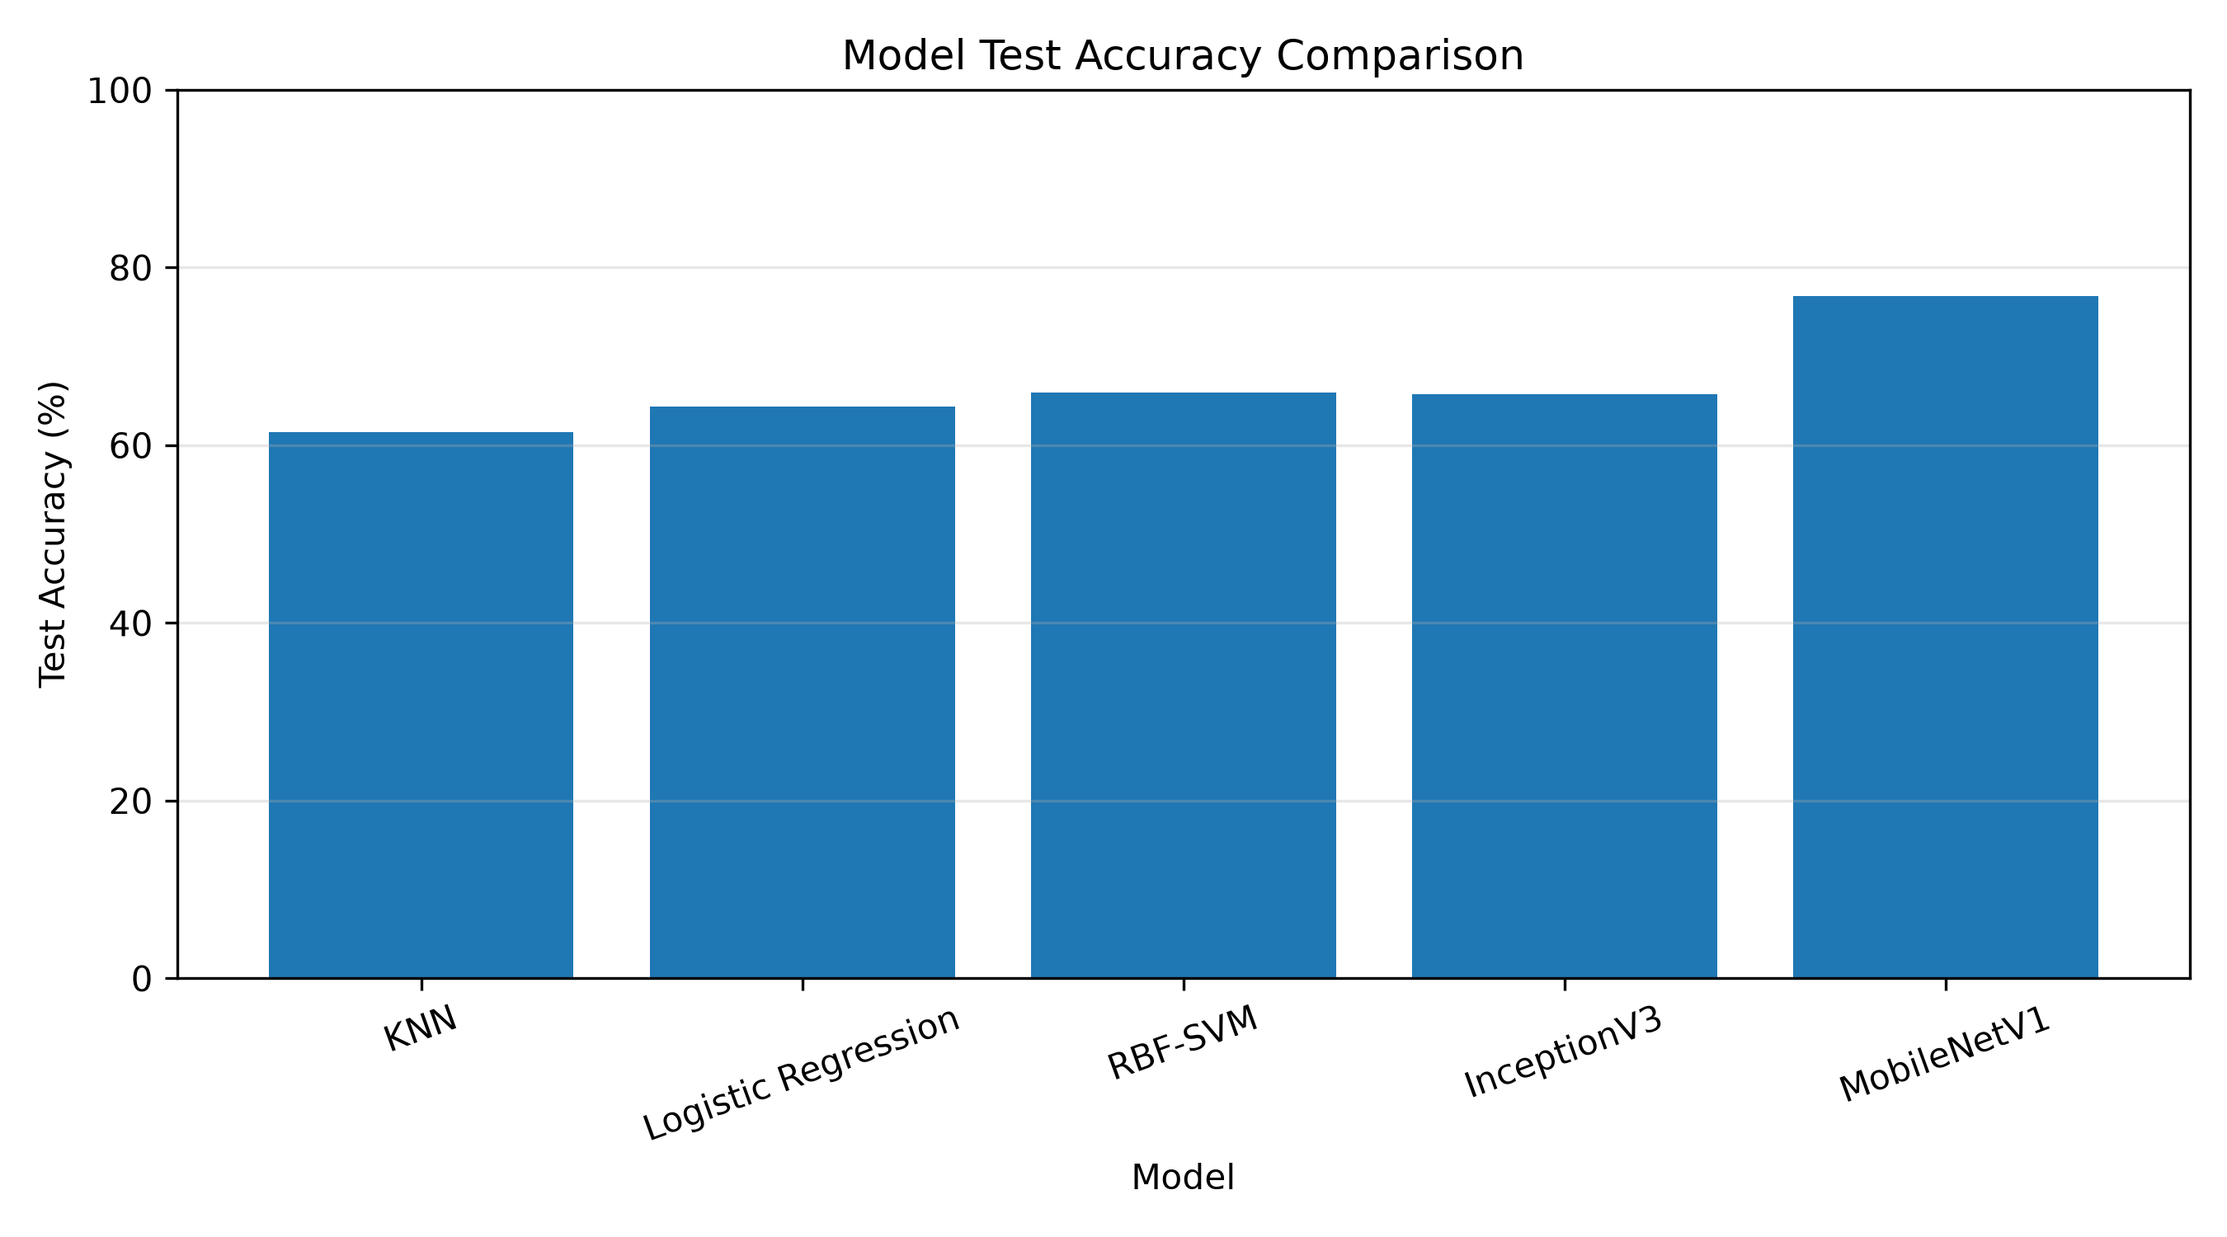
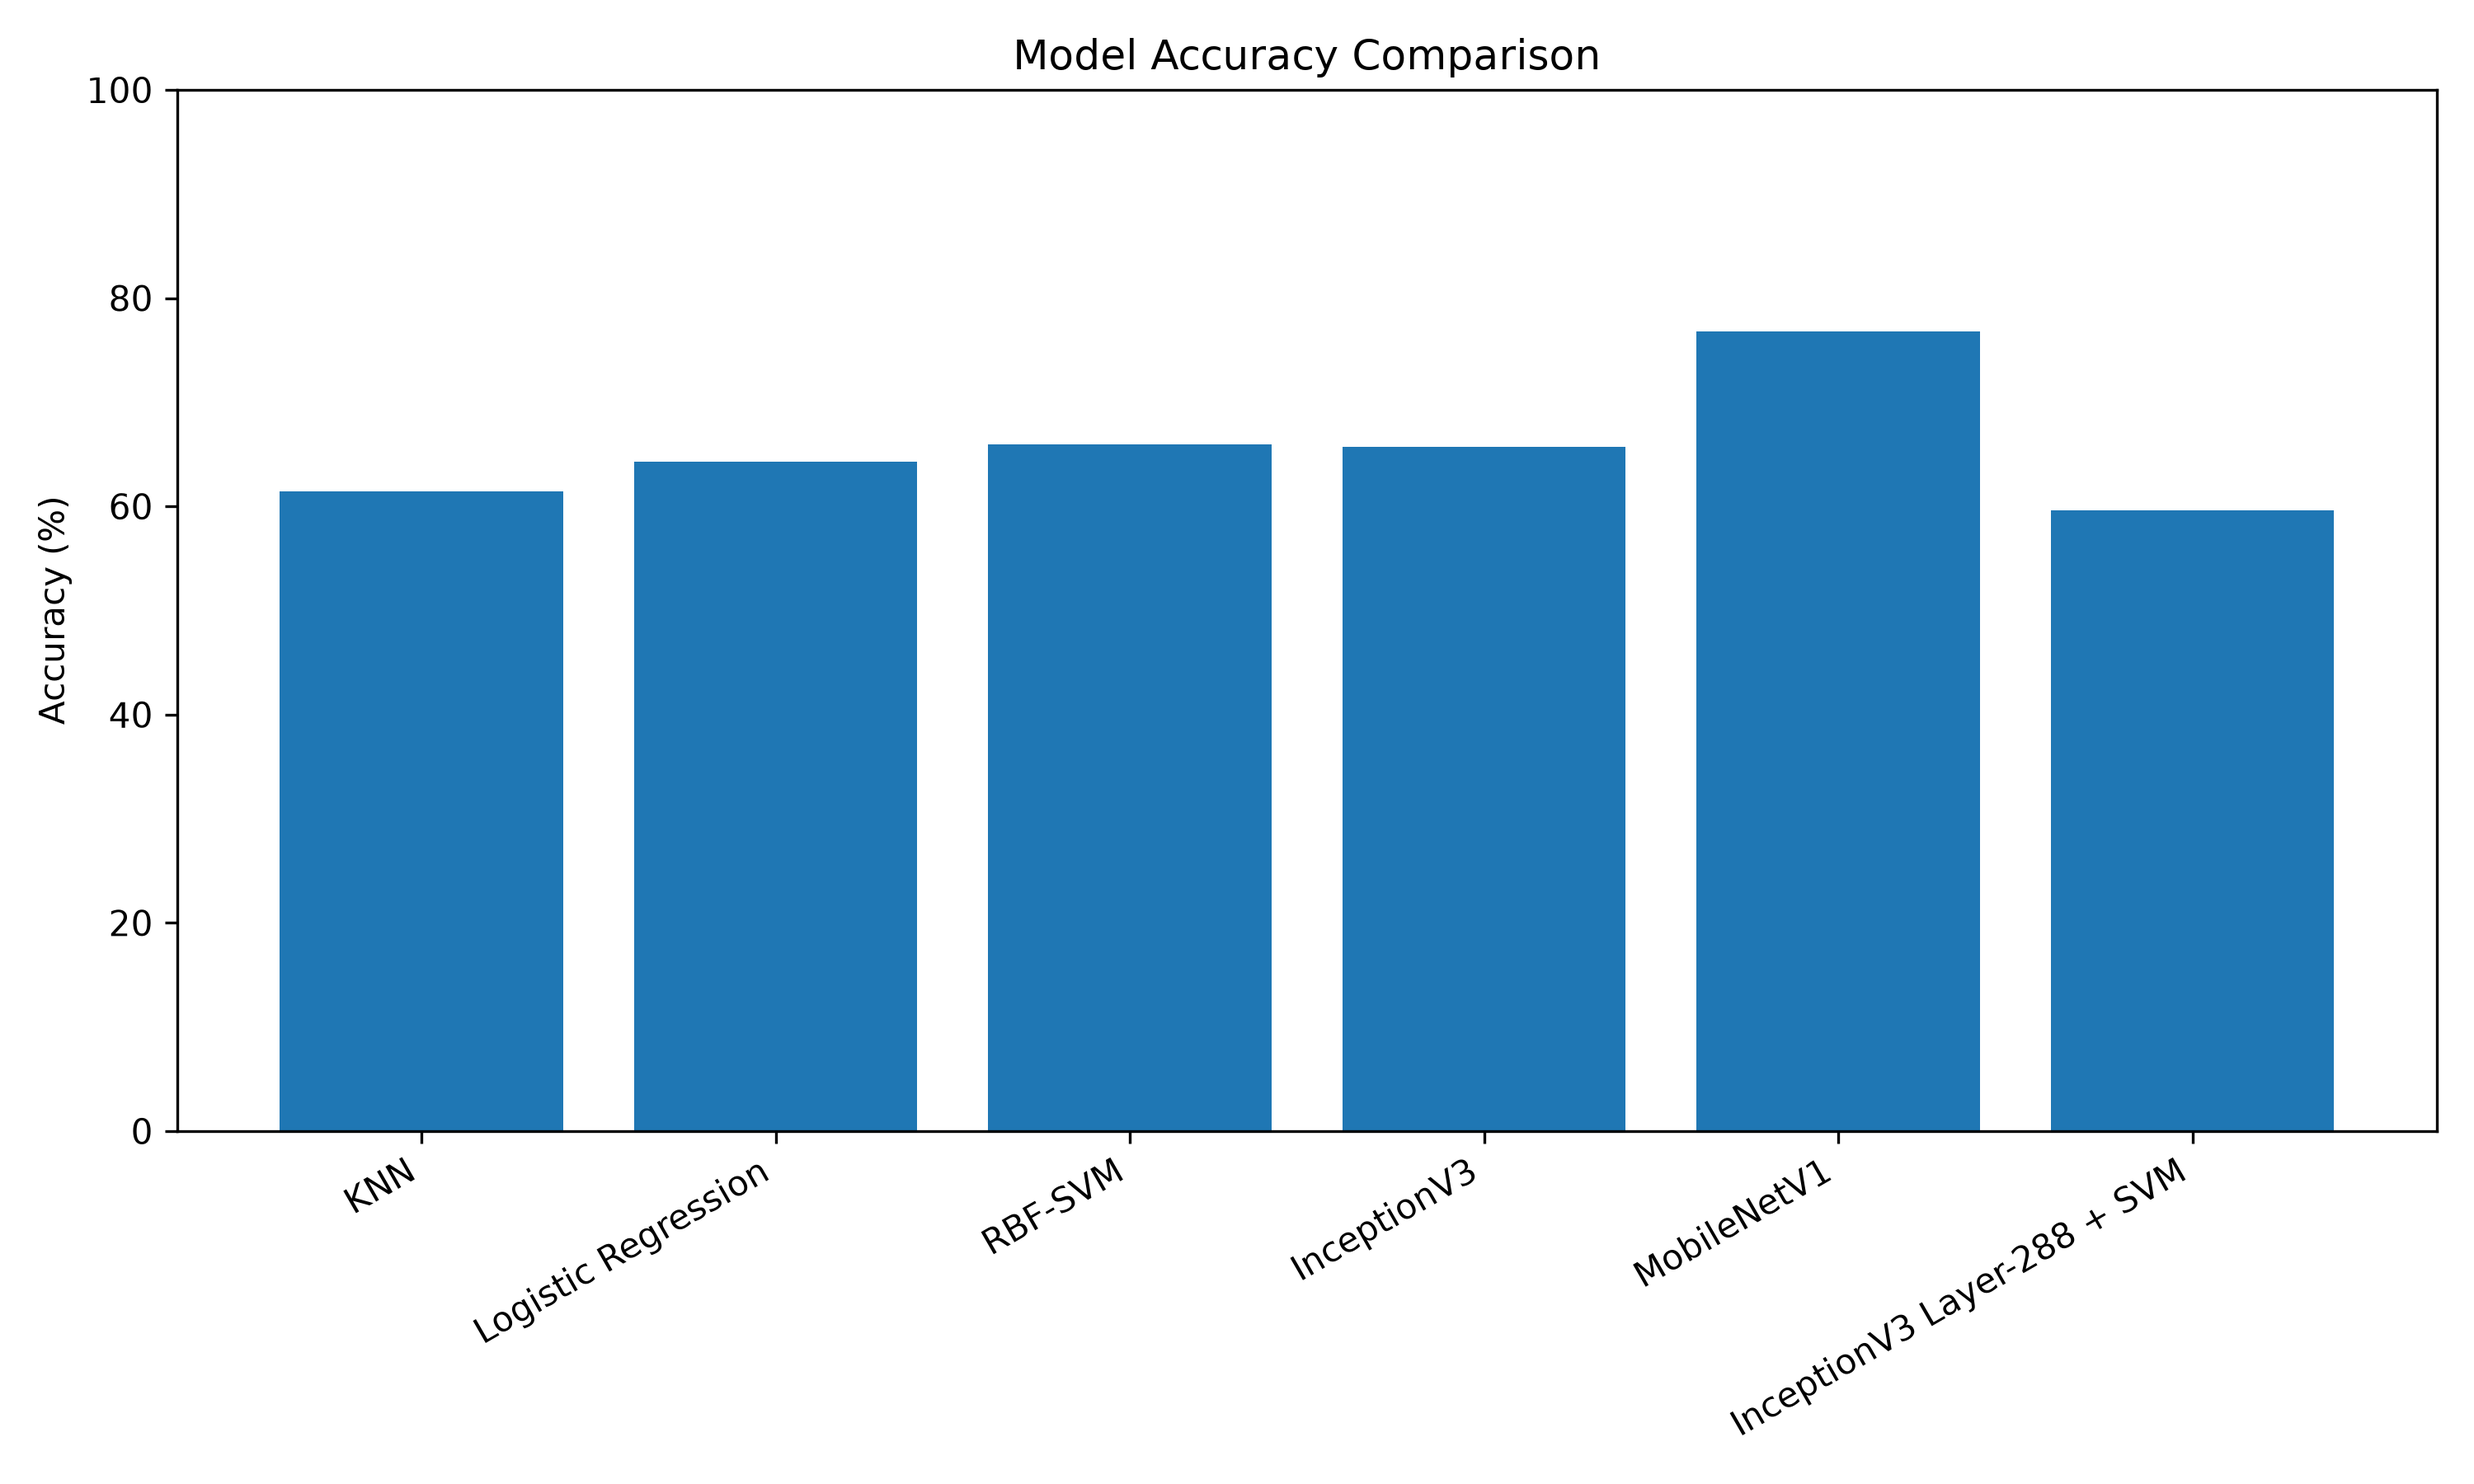
Update six-model comparison

diff --git a/src/plot_model_comparison.py b/src/plot_model_comparison.py
@@ -1,0 +1,28 @@
+import pandas as pd
+import matplotlib.pyplot as plt
+
+df = pd.read_csv("results/model_comparison.csv")
+
+# Accuracy comparison
+plt.figure(figsize=(10, 6))
+plt.bar(df["Model"], df["Accuracy"] * 100)
+plt.ylabel("Accuracy (%)")
+plt.title("Model Accuracy Comparison")
+plt.xticks(rotation=30, ha="right")
+plt.ylim(0, 100)
+plt.tight_layout()
+plt.savefig("results/model_accuracy_comparison.png", dpi=300)
+plt.close()
+
+# F1 comparison
+plt.figure(figsize=(10, 6))
+plt.bar(df["Model"], df["F1"] * 100)
+plt.ylabel("F1 Score (%)")
+plt.title("Model F1 Score Comparison")
+plt.xticks(rotation=30, ha="right")
+plt.ylim(0, 100)
+plt.tight_layout()
+plt.savefig("results/model_f1_comparison.png", dpi=300)
+plt.close()
+
+print("Comparison plots generated successfully.")
